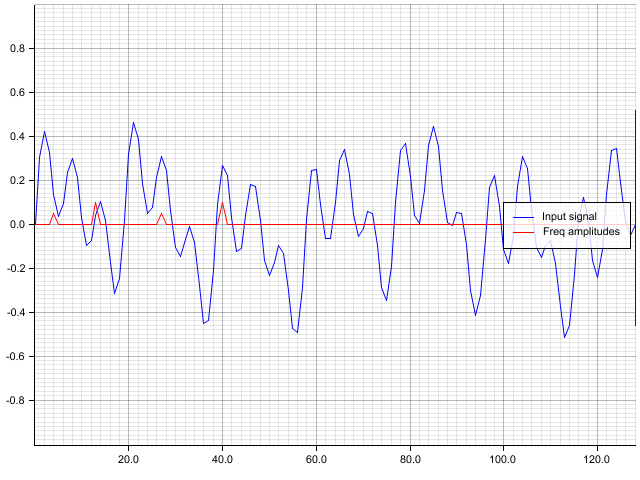
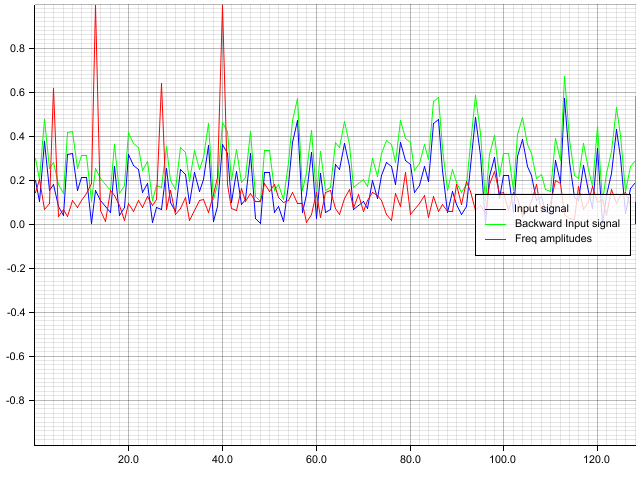
New test code

diff --git a/test32_vst_plugin/src/lib.rs b/test32_vst_plugin/src/lib.rs
@@ -188,12 +188,12 @@ impl Plugin for BasicPlugin {
     fn get_info(&self) -> Info {
         Info {
             name: "DevNul's Plugin".to_string(),
-            unique_id: 1357,            // Уникальный номер, чтобы отличать плагины
+            unique_id: 13573312,        // Уникальный номер, чтобы отличать плагины
             presets: 0,                 // Количество пресетов
             inputs: 2,                  // Сколько каналов звука на входе
             outputs: 2,                 // Каналы звука на выходе
             version: 0001,              // Версия плагина 
-            category: Category::Synth,  // Тип плагина
+            category: Category::Effect, // Тип плагина
             parameters: 2,
             //initial_delay, 
             //preset_chunks, 
@@ -205,7 +205,7 @@ impl Plugin for BasicPlugin {
     }
 
     // Функция, которая вызывается на события, такие как MIDI и тд
-    fn process_events(&mut self, events: &Events) {
+    /*fn process_events(&mut self, events: &Events) {
         // Идем по всем ивентам, некоторые из них - MIDI
         // Обрабатывать будем только MIDI 
         for event in events.events() {
@@ -234,7 +234,7 @@ impl Plugin for BasicPlugin {
                 _ => (),
             }
         }
-    }
+    }*/
 
     fn process(&mut self, buffer: &mut AudioBuffer<f32>){
         let threshold = if let Ok(val) = self.params.threshold.lock(){
@@ -250,82 +250,107 @@ impl Plugin for BasicPlugin {
 
         // Создаем итератор по парам элементов, входа и выхода
         for (input, output) in buffer.zip() {
-            let const_val: f32 = input
-                .iter()
-                .fold(1.0_f32, |prev, new|{
-                    if new.abs() < prev.abs(){
-                        *new
-                    }else{
-                        prev
-                    }
-                });
-                /*.map(|val| val.abs())
-                .min_by(|val1, val2|{
-                    if val1 < val2 {
-                        std::cmp::Ordering::Less
-                    }else if val1 > val2{
-                        std::cmp::Ordering::Greater
-                    }else{
-                        std::cmp::Ordering::Equal
-                    }
-                })
-                .unwrap_or(0.0_f32);*/
-
-            // FFTplanner позволяет выбирать оптимальный алгоритм работы для входного размера данных
-            let mut planner = FFTplanner::new(false);
-
-            // Создаем объект, который содержит в себе оптимальный алгоритм преобразования фурье
-            let fft = planner.plan_fft(input.len());
+            // let const_val: f32 = input
+            //     .iter()
+            //     .fold(1.0_f32, |prev, new|{
+            //         if new.abs() < prev.abs(){
+            //             *new
+            //         }else{
+            //             prev
+            //         }
+            //     });
+                // .map(|val| val.abs())
+                // .min_by(|val1, val2|{
+                //     if val1 < val2 {
+                //         std::cmp::Ordering::Less
+                //     }else if val1 > val2{
+                //         std::cmp::Ordering::Greater
+                //     }else{
+                //         std::cmp::Ordering::Equal
+                //     }
+                // })
+                // .unwrap_or(0.0_f32);
 
             let mut input_fft: Vec<Complex32> = input
                 .iter()
+                .flat_map(|val|{
+                    std::iter::repeat(val)
+                        .take(40)
+                })
                 .map(|val|{
                     Complex32::new(*val, 0.0)
-                    //Complex32::new(*val - const_val, 0.0)
-                    /*if *val < 0.0_f32{
-                        Complex32::new(*val - const_val.abs(), 0.0)
-                        // Complex32::new(*val, 0.0)
-                    }else{
-                        Complex32::new(*val - const_val.abs(), 0.0)
-                        // Complex32::new(*val, 0.0)
-                    }*/
+                    // Complex32::new(*val - const_val, 0.0)
+                    // if *val < 0.0_f32{
+                    //     Complex32::new(*val - const_val.abs(), 0.0)
+                    //     // Complex32::new(*val, 0.0)
+                    // }else{
+                    //     Complex32::new(*val - const_val.abs(), 0.0)
+                    //     // Complex32::new(*val, 0.0)
+                    // }
                 })
                 .collect();
 
-            let mut output_fft: Vec<Complex32> = vec![Complex::zero(); output.len()];
+            /*let from = output.len()*40 - output.len()/2;
+            let to = output.len()*40 + output.len()/2;
+            let mut input_fft: Vec<Complex32> = vec![Complex::zero(); output.len()*40];
+            input_fft
+                .iter_mut()
+                .enumerate()
+                .for_each(|(i, val)|{
+                    if i > from && i <= to  {
+                        *val = Complex32::new(input[i-from], 0.0);
+                    }else{
+                        *val = Complex32::new(0.0, 0.0)
+                    }
+                });*/
+
+            let mut output_fft: Vec<Complex32> = vec![Complex::zero(); output.len()*40];
+
+            // FFTplanner позволяет выбирать оптимальный алгоритм работы для входного размера данных
+            // Создаем объект, который содержит в себе оптимальный алгоритм преобразования фурье
+            let fft_to = FFTplanner::new(false).plan_fft(output_fft.len());
 
             // Обрабатываем данные
             // Входные данные мутабельные, так как они используются в качестве буффера
             // Как результат - там будет мусор после вычисления
-            fft.process(&mut input_fft, &mut output_fft);
+            fft_to.process(&mut input_fft, &mut output_fft);
             
-            let sqrt_len = 1.0 / (output_fft.len() as f32).sqrt();
-            output_fft
-                .iter_mut()
-                .for_each(|val|{
-                    *val *= sqrt_len;
-                });
+            let inv_len = 1.0 / (output_fft.len() as f32);
+            let sqrt_len = 1.0 / inv_len.sqrt();
+            // output_fft
+            //     .iter_mut()
+            //     .for_each(|val|{
+            //         *val *= sqrt_len;
+            //     });
 
-            fft.process(&mut output_fft, &mut input_fft);
+            // FFTplanner позволяет выбирать оптимальный алгоритм работы для входного размера данных
+            // Создаем объект, который содержит в себе оптимальный алгоритм преобразования фурье
+            let fft_inv = FFTplanner::new(true).plan_fft(output_fft.len());
+
+            fft_inv.process(&mut output_fft, &mut input_fft);
 
             input_fft
                 .iter_mut()
                 .for_each(|val|{
-                    *val *= sqrt_len;
+                    //val.norm();
+                    *val *= inv_len;
                 });
 
-
             // Для каждого входного и выходного семпла в буфферах
-            for (in_sample, out_sample) in input_fft.into_iter().zip(output.into_iter()) {
-                /*let val = if in_sample.re < 0.0_f32{
-                    in_sample.re + min_abs
-                }else{
-                    in_sample.re + min_abs
-                };*/
-                let val = in_sample.re;
-                // let val = in_sample.re + const_val;
+            for (in_sample, out_sample) in input_fft.into_iter().step_by(40).zip(output.into_iter()) {
+                // let val = if in_sample.re < 0.0_f32{
+                //     in_sample.re + min_abs
+                // }else{
+                //     in_sample.re + min_abs
+                // };
+                //let val = in_sample.re;
+                let val: Complex32 = in_sample;
+                let val = val.norm();
+                // let val = val.re;
+                // let val = val.norm() + const_val;
 
-                //*out_sample = val;
+                *out_sample = val;
+                //let val = *in_sample;
 
                 // Эмулируем клиппинг значений
                 *out_sample = if val > threshold {
@@ -339,7 +364,39 @@ impl Plugin for BasicPlugin {
                 *out_sample *= volume;
             }
         }
-    }
+    } 
+    
+    // fn process(&mut self, buffer: &mut AudioBuffer<f32>) {
+    //     let volume = if let Ok(val) = self.params.volume.lock(){
+    //         *val
+    //     }else{
+    //         0.0_f32
+    //     };
+    //     let threshold = if let Ok(val) = self.params.threshold.lock(){
+    //         *val
+    //     }else{
+    //         0.0_f32
+    //     };
+
+    //     // let (_, mut output) = buffer.split();
+    //     // for channel in 0..output.len() {
+    //     //     let channel_data = output.get_mut(channel);
+    //     //     for out_sample in channel_data{
+    //     //         *out_sample = rand::random::<f32>() * volume;
+    //     //     }
+    //     // }
+        
+    //     // For each input and output
+    //     for (input, output) in buffer.zip() {
+    //         // For each input sample and output sample in buffer
+    //         for (in_frame, out_frame) in input.iter().zip(output.iter_mut()) {
+    //             //*out_frame = *in_frame * volume;
+    //             //let random_power = (rand::random::<f32>() - 0.5) * 2.0 * threshold;
+    //             let random_power = rand::random::<f32>() * threshold;
+    //             *out_frame = (in_frame * volume * random_power).min(1.0).max(-1.0);
+    //         }
+    //     }
+    // }
 
     // Выдаем ссылку на шареный объект параметров
     fn get_parameter_object(&mut self) -> Arc<dyn PluginParameters> {

diff --git a/fft_examples/src/main.rs b/fft_examples/src/main.rs
@@ -27,7 +27,9 @@ fn print_result(prefix: &str, data: &[Complex32]){
         .take(data.len() / 2)
         .enumerate()
         .for_each(|(i, val)|{
-            let amplitude = (1.0 / data.len() as f32) * (val.re * val.re + val.im * val.im).sqrt();
+            //let amplitude = (1.0 / data.len() as f32) * (val.re * val.re + val.im * val.im).sqrt();
+            // Амплитуда - это модуль комплексного числа
+            let amplitude = val.norm();
             //println!("{}-> {}: re {}, im {}, amp: {}", prefix, i, val.re, val.im, amplitude);
             
             // Нулевое значение - базовая составляющая, затем идут частоты (гармоники)
@@ -35,25 +37,34 @@ fn print_result(prefix: &str, data: &[Complex32]){
         });
 }
 
-fn plot_results(input: &[Complex32], out: &[Complex32]) -> Result<(), Box<dyn std::error::Error>> {
+fn plot_results(input: &[Complex32], back_input: &[Complex32], out: &[Complex32]) -> Result<(), Box<dyn std::error::Error>> {
     let data_size = out.len() / 2;
 
     let in_iter = input
         .iter()
         .enumerate()
         .map(|(i, val)|{
-            (i as f32, val.re)
+            (i as f32, val.norm())
         });
     
+    let back_in_iter = back_input
+        .iter()
+        .enumerate()
+        .map(|(i, val)|{
+            (i as f32, val.norm()+0.1)
+        });
+
     let out_ampl_iter = out
         .iter()
         .take(data_size)
         .enumerate()
         .map(|(i, val)|{
             // http://psi-logic.narod.ru/fft/fftg.htm
-            let amplitude = (1.0 / out.len() as f32) * (val.re * val.re + val.im * val.im).sqrt();
+            // let amplitude = (1.0 / out.len() as f32) * (val.re * val.re + val.im * val.im).sqrt();
+            // Амплитуда - это модуль комплексного числа
+            let amplitude = val.norm();
             (i as f32, amplitude)
-        });
+        }); 
 
     // let out_phase_iter = out
     //     .iter()
@@ -61,6 +72,8 @@ fn plot_results(input: &[Complex32], out: &[Complex32]) -> Result<(), Box<dyn st
     //     .enumerate()
     //     .map(|(i, val)|{
     //         // http://psi-logic.narod.ru/fft/fftg.htm
+    //         // Аргумент, это фаза сигнала во времени???
+    //         // Благодаря общему спектру и фазе - можно полность восстановить сигнал обратно
     //         let phase = val.arg();
     //         (i as f32, phase)
     //     });
@@ -89,6 +102,14 @@ fn plot_results(input: &[Complex32], out: &[Complex32]) -> Result<(), Box<dyn st
 
     chart
         .draw_series(LineSeries::new(
+            back_in_iter,
+            &GREEN,
+        ))?
+        .label("Backward Input signal")
+        .legend(|(x, y)| PathElement::new(vec![(x, y), (x + 20, y)], &GREEN));
+
+    chart
+        .draw_series(LineSeries::new(
             out_ampl_iter,
             &RED,
         ))?
@@ -98,10 +119,10 @@ fn plot_results(input: &[Complex32], out: &[Complex32]) -> Result<(), Box<dyn st
     // chart
     //     .draw_series(LineSeries::new(
     //         out_phase_iter,
-    //         &RED,
+    //         &YELLOW,
     //     ))?
-    //     .label("Freq phases")
-    //     .legend(|(x, y)| PathElement::new(vec![(x, y), (x + 20, y)], &RED));
+    //     .label("Phase")
+    //     .legend(|(x, y)| PathElement::new(vec![(x, y), (x + 20, y)], &YELLOW));
 
     chart
         .configure_series_labels()
@@ -157,6 +178,11 @@ fn test_forward_transform_with_planner(){
             let result: Complex32 = make_harm(40, 0.8, i, DATA_SIZE);
             (i, val + result, step + 1.0f32)
         })
+        .map(|(i, val, step)|{
+            let result: Complex32 = Complex32::new((rand::random::<f32>() - 0.5) * 2.0, 0.0);
+            // let result: Complex32 = Complex32::new(0.0, 0.0);
+            (i, val + result, step + 1.0f32)
+        })
         .map(|(_, val, step)|{
             // Не забываем сделать нормализацию
             Complex32::new(val.re / step, 0.0)
@@ -177,15 +203,42 @@ fn test_forward_transform_with_planner(){
     // Входные данные мутабельные, так как они используются в качестве буффера
     // Как результат - там будет мусор после вычисления
     fft.process(&mut input, &mut output);
+
+    // Создаем объект, который содержит в себе оптимальный алгоритм преобразования фурье
+    let fft_inverse = FFTplanner::new(true).plan_fft(DATA_SIZE);
+
+    let len = output.len() as f32;
+    output
+        .iter_mut()
+        .for_each(|val|{
+            *val *= 1.0 / len.sqrt();
+        });
     
+    let forward_output = output.clone();
+
+    // Обрабатываем данные
+    // Входные данные мутабельные, так как они используются в качестве буффера
+    // Как результат - там будет мусор после вычисления
+    let mut backward_output = output.clone();
+    fft_inverse.process(&mut output, &mut backward_output);
+
+    // Нормализация значений
+    let len = input.len() as f32;
+    backward_output
+        .iter_mut()
+        .for_each(|val|{
+            *val *= 1.0 / len.sqrt();
+        });
+
     // The fft instance returned by the planner is stored behind an `Arc`, so it's cheap to clone
     // Экземпляр FFT хранится в Arc умном указателе, можно легко его клонировать
     //let fft_clone = Arc::clone(&fft);
 
     println!("\n\n");
-    //print_result("Output", &output);
+    print_result("Input", &input);
+    print_result("Output", &output);
 
-    plot_results(&input, &output).ok();
+    plot_results(&input, &backward_output, &forward_output).ok();
 }
 
 fn main() {

diff --git a/enginesound/src/fft.rs b/enginesound/src/fft.rs
@@ -87,7 +87,8 @@ impl FFTStreamer
                 fft.process(&mut complex_buf, &mut complex_buf2);
 
                 {
-                    // Итератор по нормализованным комплексным значением
+                    // Итератор по модулям значений
+                    // Модуль - это амплитуда конкретной частоты
                     let new_val_iter = complex_buf2
                         .iter()
                         .map(|complex| {
